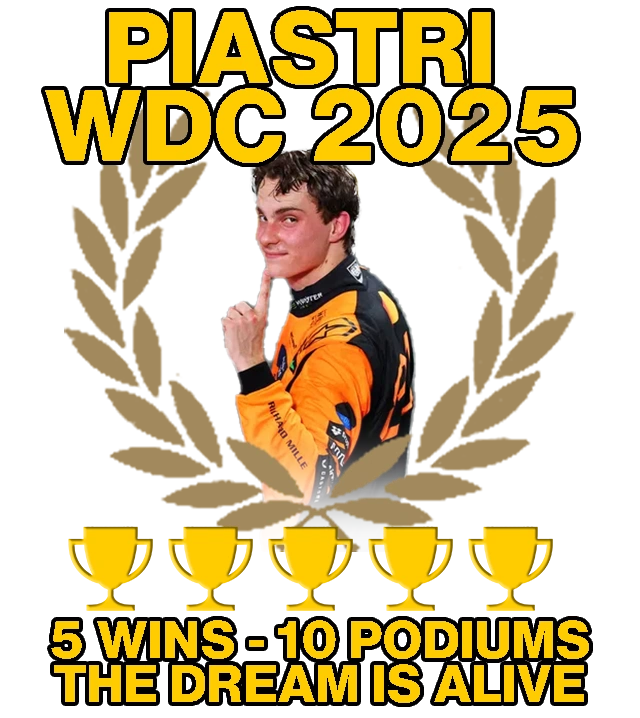
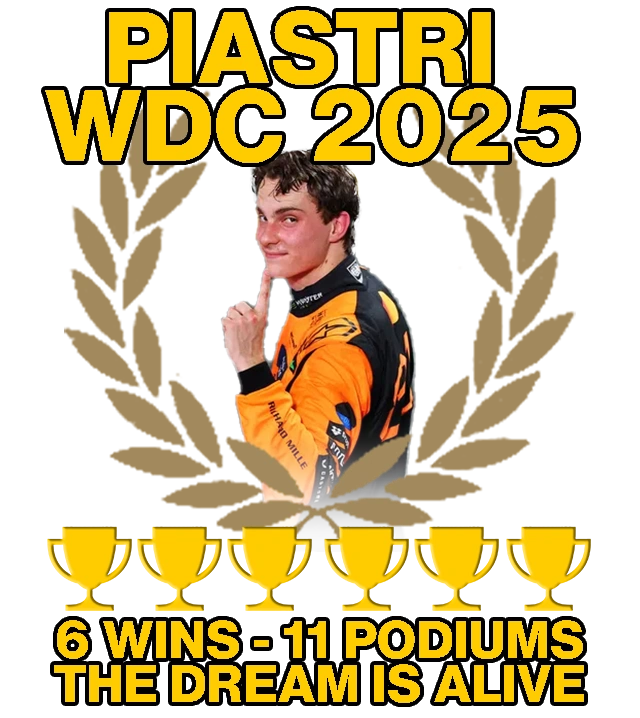
07/27/25 - Revision 1
-Updated news
-Updated Piastri graphic

Changed region(s): [[0.0625, 0.7354, 0.9375, 0.9192]]

diff --git a/pages/main/changelog.html b/pages/main/changelog.html
@@ -17,7 +17,10 @@
             <h1>
                 The Changelog 
             </h1>
-            <h2>07/19/25–1 Commit</h2>
+            <h2>07/27/25–1 Commit</h2>
+                <li>Updated news</li>
+                <li>Updated Piastri graphic</li>
+            <h2>07/26/25–1 Commit</h2>
                 <li>Edited the spine of 2001: A Space Odyssey to get rid of the white spot where there should be a VHS tape</li>
                 <li>Worked on the VHS movies shelf</li>
                 <li>Fixed the bookshelf box's overflow and scaling</li>
